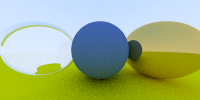
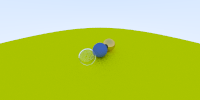
Capitulo 10

diff --git a/Ray Tracing/src/main.cpp b/Ray Tracing/src/main.cpp
@@ -68,21 +68,30 @@ int main(){
 	vec3 vertical(0.0, 2.0, 0.0);
 	vec3 origin(0.0, 0.0, 0.0); */
 
-	hitable *list[5];
-	/* list[0] = new sphere(vec3(0, 0, -1), 0.5, new lambertian(vec3 (0.8, 0.3, 0.3)));
+	/* 
+	hitable *list[4];
+	list[0] = new sphere(vec3(0, 0, -1), 0.5, new lambertian(vec3 (0.8, 0.3, 0.3)));
 	list[1] = new sphere(vec3(0, -100.5, -1), 100, new lambertian(vec3(0.8, 0.8, 0.0)));
 	list[2] = new sphere(vec3(1, 0, -1), 0.5, new metal(vec3(0.8, 0.6, 0.2)));
 	list[3] = new sphere(vec3(-1, 0, -1), 0.5, new metal(vec3(0.8, 0.8, 0.8)));
 	*/
 
+	hitable *list[5];
 	list[0] = new sphere(vec3(0, 0, -1), 0.5, new lambertian(vec3(0.1, 0.2, 0.5)));
 	list[1] = new sphere(vec3(0, -100.5, -1), 100, new lambertian(vec3(0.8, 0.8, 0.0)));
 	list[2] = new sphere(vec3(1, 0, -1), 0.5, new metal(vec3(0.8, 0.6, 0.2)));
 	list[3] = new sphere(vec3(-1, 0, -1), 0.5, new dielectric(1.5));
 	list[4] = new sphere(vec3(-1, 0, -1), -0.45, new dielectric(1.5));
-
 	hitable *world = new hitable_list(list, 5);
-	camera cam;
+
+	// camera cam(90, float(nx)/float(ny));
+	camera cam(vec3(-2, 2, 1), vec3(0, 0, -1), vec3(0, 1, 0), 90, float(nx) / float(ny));
+	float R = cos(3.1416 / 4);
+	/* hitable *list[2];
+	list[0] = new sphere(vec3(-R, 0, -1), R, new lambertian(vec3(0, 0, 1)));
+	list[1] = new sphere(vec3(R, 0, -1), R, new lambertian(vec3(1, 0, 0)));
+	hitable *world = new hitable_list(list, 2); */
+
 	for (int j=ny-1; j>=0; j--){
 		for (int i=0; i<nx; i++){
 			vec3 col(0, 0, 0);

diff --git a/Ray Tracing/src/camera.h b/Ray Tracing/src/camera.h
@@ -2,16 +2,28 @@
 #define CAMERAH
 
 #include "ray.h"
+#define PI 3.14
 
 class  camera {
 public:
-	camera() {
-		lower_left_corner = vec3(-2.0, -1.0, -1.0);
-		horizontal = vec3(4.0, 0.0, 0.0);
-		vertical = vec3(0.0, 2.0, 0.0);
-		origin = vec3(0.0, 0.0, 0.0);
+	camera(vec3 lookfrom, vec3 lookat, vec3 vup, float vfow, float aspect) {
+		vec3 u, v, w;
+		float theta = vfow * PI / 180;
+		float half_height = tan(theta / 2);
+		float half_width = aspect * half_height;
+		origin = lookfrom;
+		w = unit_vector(lookfrom - lookat);
+		u = unit_vector(cross(vup, w));
+		v = cross(w, u);
+		lower_left_corner = vec3(-half_width, -half_height, -1.0);
+		lower_left_corner = origin - half_width * u - half_height * v - w;
+		/* horizontal = vec3(2* half_width, 0.0, 0.0);
+		vertical = vec3(0.0, 2* half_height, 0.0); */
+		horizontal = 2 * half_width*u;
+		vertical = 2 * half_height*v;
+		// origin = vec3(0.0, 0.0, 0.0);
 	}
-	ray get_ray(float u, float v) { return ray(origin, lower_left_corner + u * horizontal + v * vertical - origin); }
+	ray get_ray(float s, float t) { return ray(origin, lower_left_corner + s*horizontal + t * vertical - origin); }
 	vec3 origin;
 	vec3 lower_left_corner;
 	vec3 horizontal;
